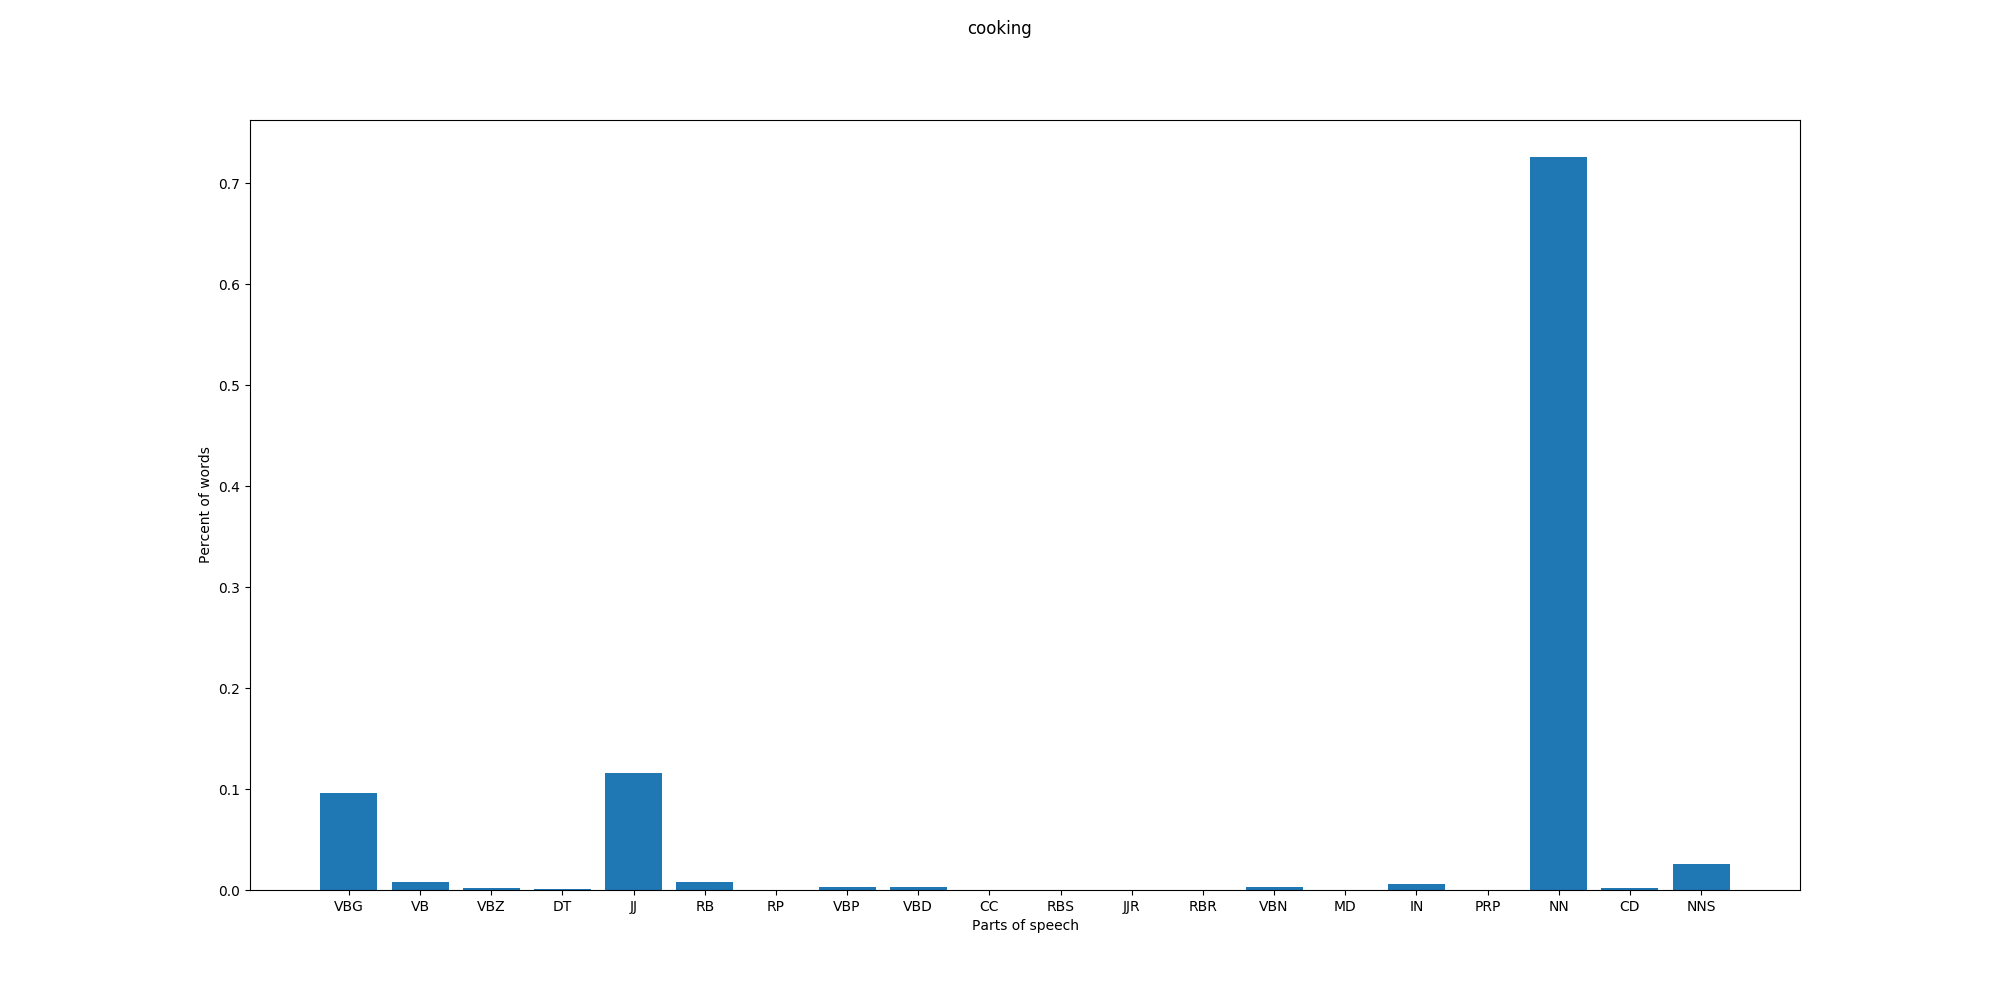
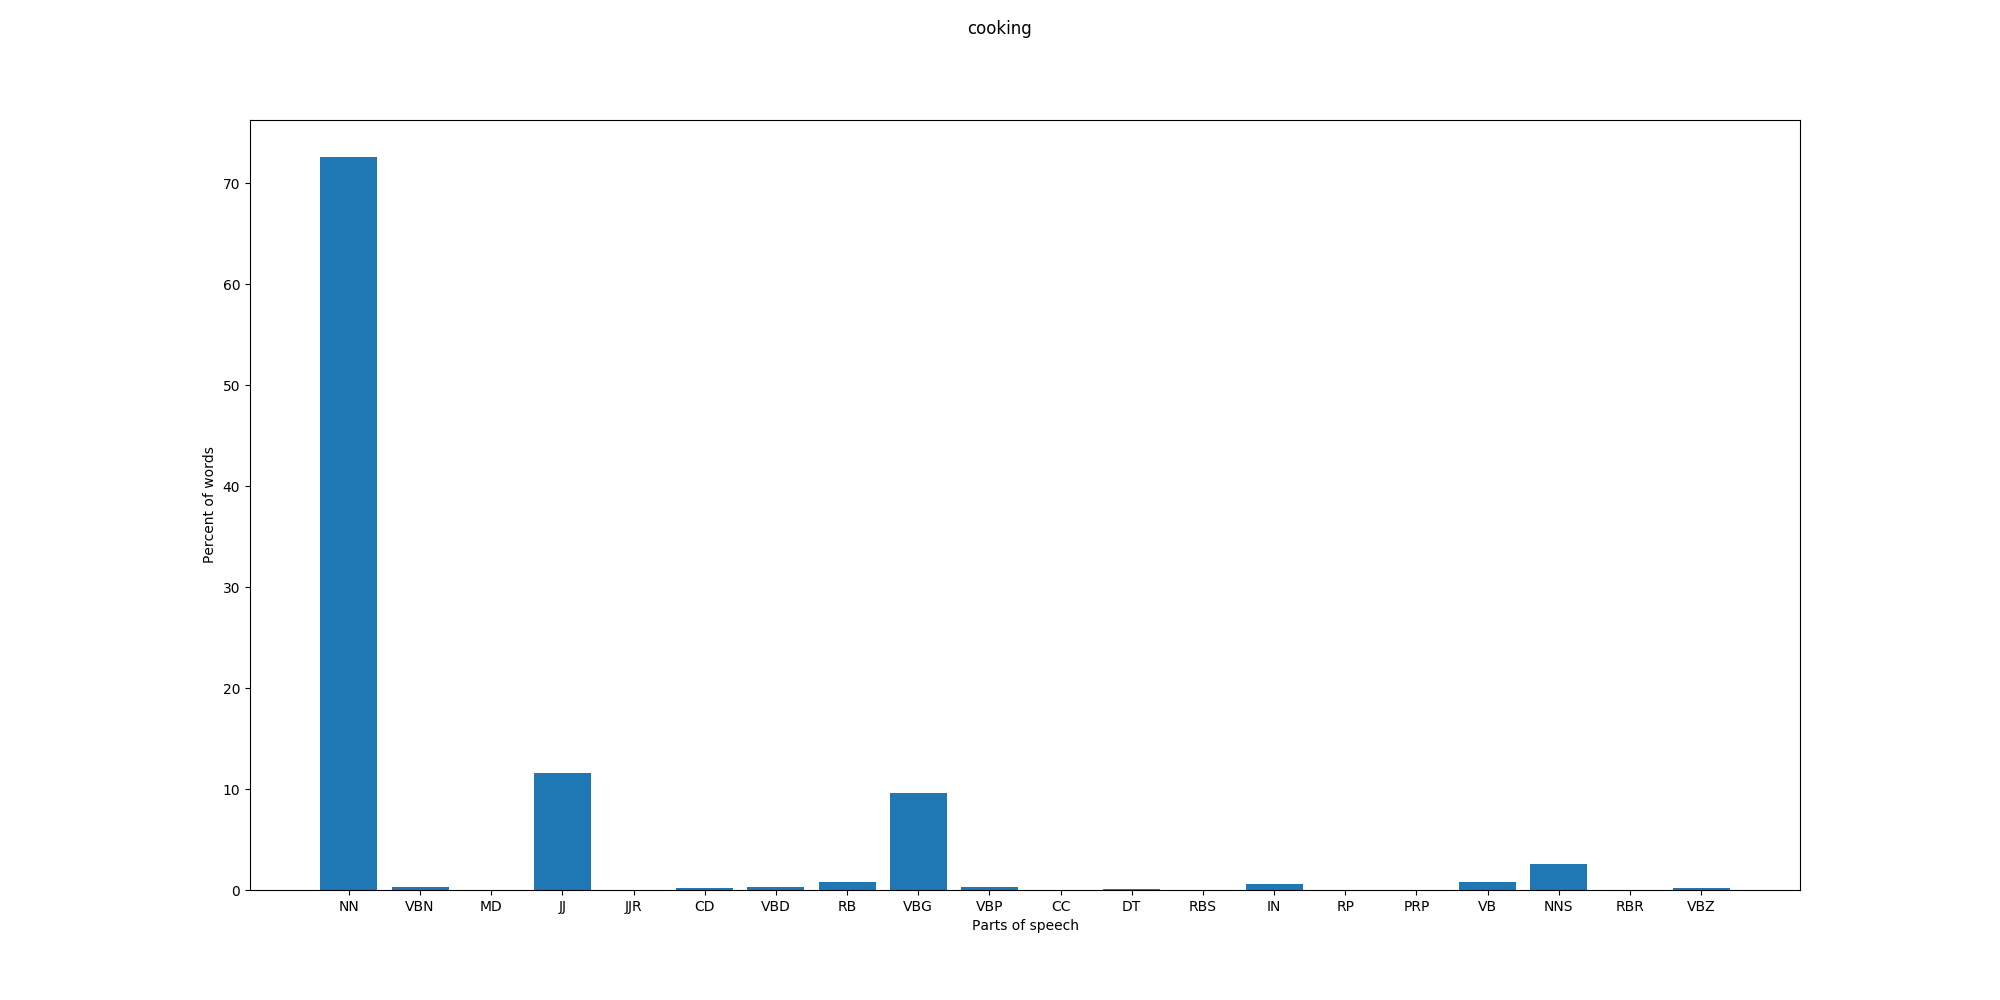
Fix part_of_speech code and charts

diff --git a/part_of_speech.py b/part_of_speech.py
@@ -1,4 +1,4 @@
-"""This module does presents graphics about what part of speech each of the tags represent."""
+"""This module presents graphics about what part of speech each of the tags represent."""
 import csv
 from os.path import join
 from collections import defaultdict
@@ -7,18 +7,18 @@ from nltk.stem import WordNetLemmatizer
 import matplotlib.pyplot as plt
 
 
-def print_tags(csv_path, csv_name):
+def save_part_of_speech_charts(csv_path, csv_name):
     print("Working on %s" % csv_path)
     wnl = WordNetLemmatizer()
     reader = csv.DictReader(open(csv_path, encoding="utf8"))
     tags_table = defaultdict(int)
     tags_num = 0
-    for line in reader:
-        for pair in pos_tag(list(map(wnl.lemmatize, line["tags"].split(" ")))):
+    for post in reader:
+        for pair in pos_tag(list(map(wnl.lemmatize, post["tags"].split(" ")))):
             tags_table[pair[1]] += 1
             tags_num += 1
     for key in tags_table:
-        tags_table[key] /= tags_num
+        tags_table[key] = tags_table[key] / tags_num * 100
     plt.figure(figsize=(20, 10))
     plt.bar(range(len(tags_table)), tags_table.values(), align='center')
     plt.xticks(range(len(tags_table)), tags_table.keys())
@@ -28,4 +28,4 @@ def print_tags(csv_path, csv_name):
     plt.savefig(join("charts", "part_of_speech", csv_name + ".png"))
 
 for csv_name in ['biology', 'cooking', 'crypto', 'diy', 'robotics', 'travel']:
-    print_tags(join("data", csv_name + ".csv"), csv_name)
+    save_part_of_speech_charts(join("data", csv_name + ".csv"), csv_name)
